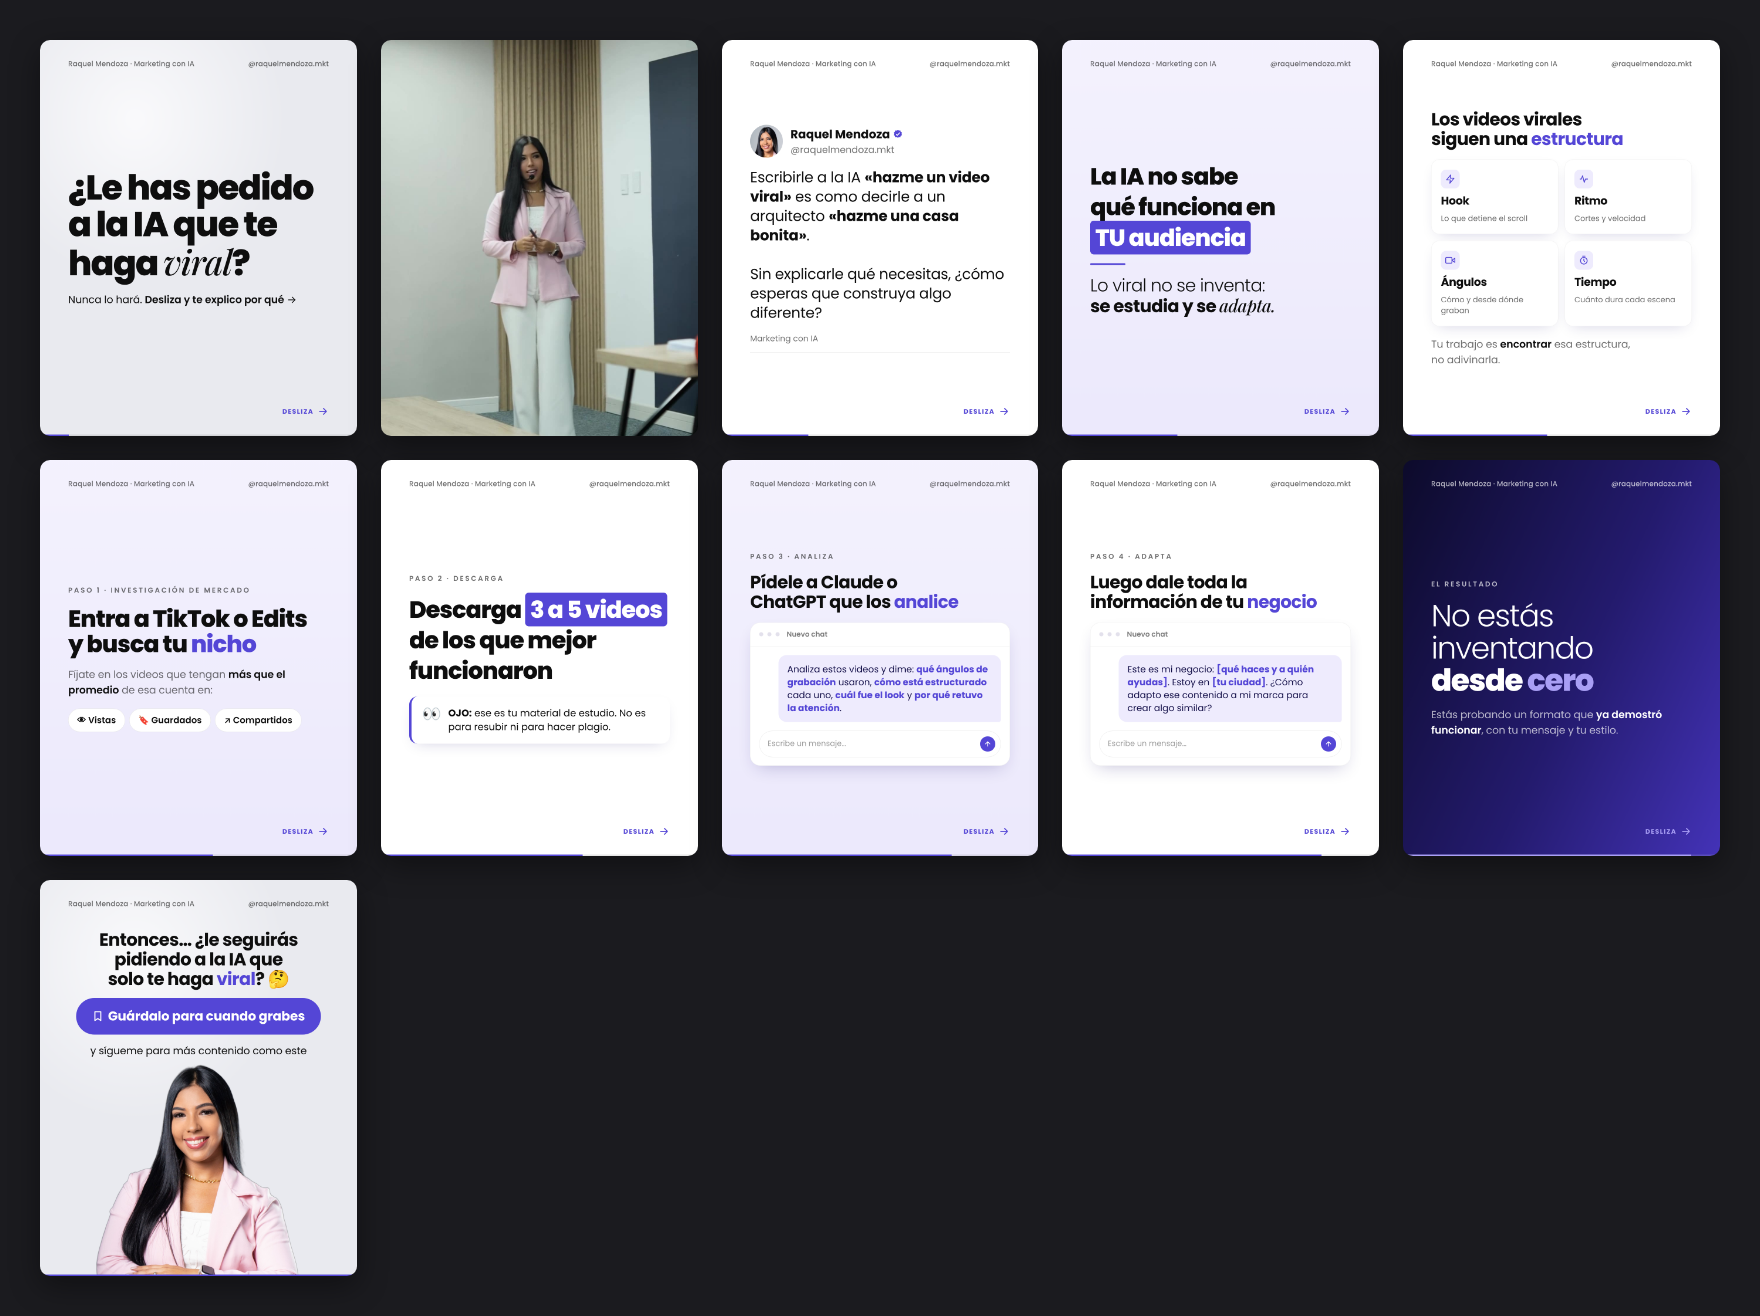
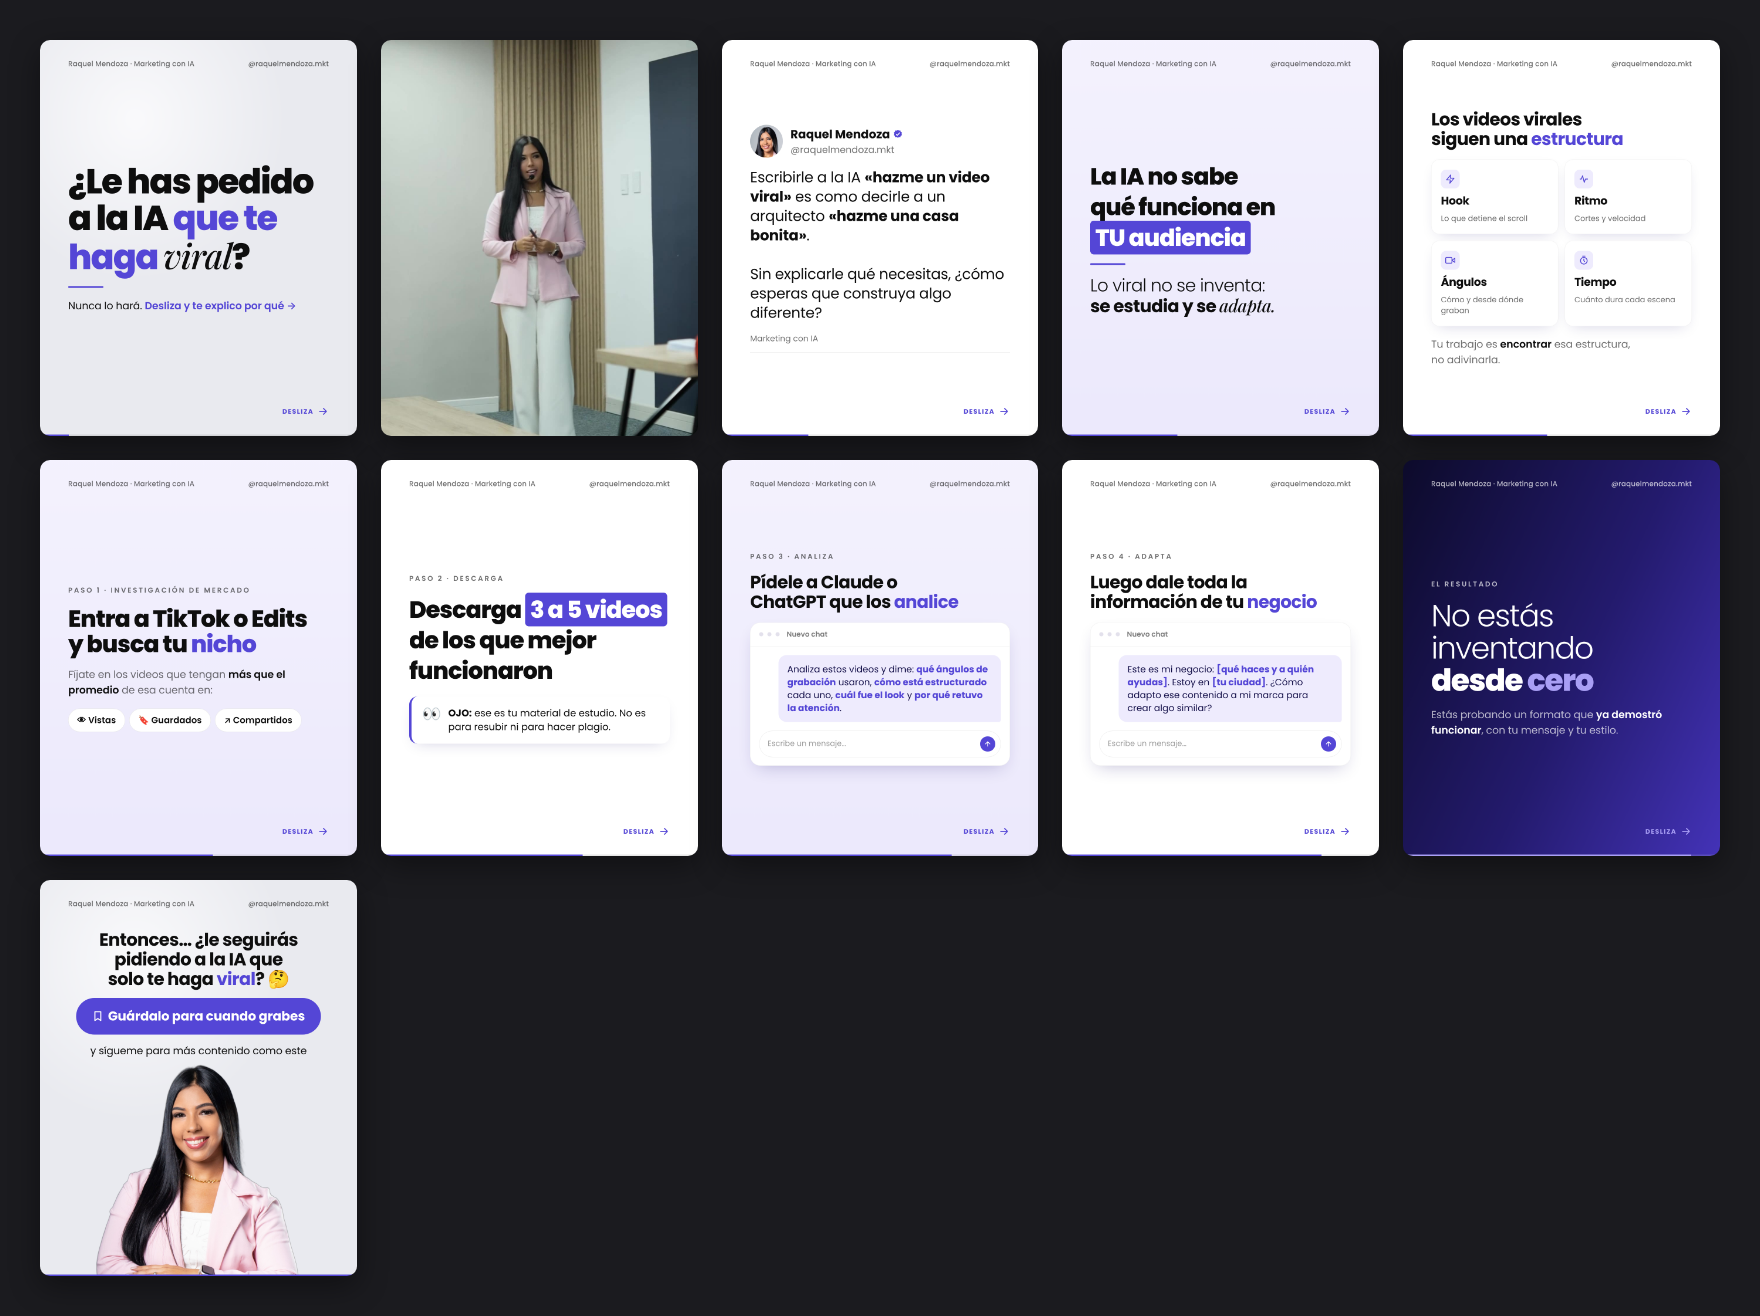
Portada del carrusel con la identidad visual de la marca
Palabras en morado, línea de acento y llamada a deslizar en morado.
Las notas de estilo registran la regla: cada slide, portada incluida,
lleva la identidad visual.

Claude-Session: https://claude.ai/code/session_01Ej8Qu3LQLaQzy4gu2zPZyZ

Changed region(s): [[0.0312, 0.1246, 0.1875, 0.2492]]

diff --git a/carruseles/proyectos/03-ia-video-viral/carrusel.html b/carruseles/proyectos/03-ia-video-viral/carrusel.html
@@ -23,8 +23,9 @@
   <!-- 01 · PORTADA: continúa el video del slide 2 -->
   <section class="slide t-mist">
     <div class="content">
-      <h1 class="hook" style="font-size:118px">¿Le has pedido a la IA que te haga <em class="serif">viral</em>?</h1>
-      <p class="body" style="color:var(--fg)">Nunca lo hará. <b>Desliza y te explico por qué</b> →</p>
+      <h1 class="hook" style="font-size:118px">¿Le has pedido a la IA <span class="c">que te haga</span> <em class="serif">viral</em>?</h1>
+      <div class="rule" style="background:var(--purple-ink)"></div>
+      <p class="body" style="color:var(--fg)">Nunca lo hará. <b style="color:var(--purple-ink)">Desliza y te explico por qué →</b></p>
     </div>
   </section>
 

diff --git a/carruseles/referencias/notas-de-estilo.md b/carruseles/referencias/notas-de-estilo.md
@@ -11,6 +11,13 @@ carrusel nuevo. Lo más reciente manda.
 - Le gustan los **diseños limpios**. Estilo por defecto: `<body class="clean">`
   (ejemplo: `proyectos/02-perfil-catalogo-limpio`).
 
+## Reglas que pidió Raquel
+- **Cada slide lleva su identidad visual, portada incluida**: al menos una palabra
+  o elemento en morado (#5446D6) además de cabecera/pie. Nunca un título todo en negro.
+- Portadas que continúan un video suyo: **solo texto**, sin foto.
+- Sin numeración de slides (`data-counter="off"`) y sin etiqueta encima del título de portada.
+- En slides tipo tuit, el avatar es `recursos/raquel-avatar.jpg` (cara centrada).
+
 ## Aprendido de las referencias (oct 2026, 11 «me gusta» / 2 «no me gusta»)
 Lo que se repite en lo que le gusta:
 1. **Fondos claros y aireados**: blanco, gris de estudio, lavanda suave. Mucho espacio vacío.
